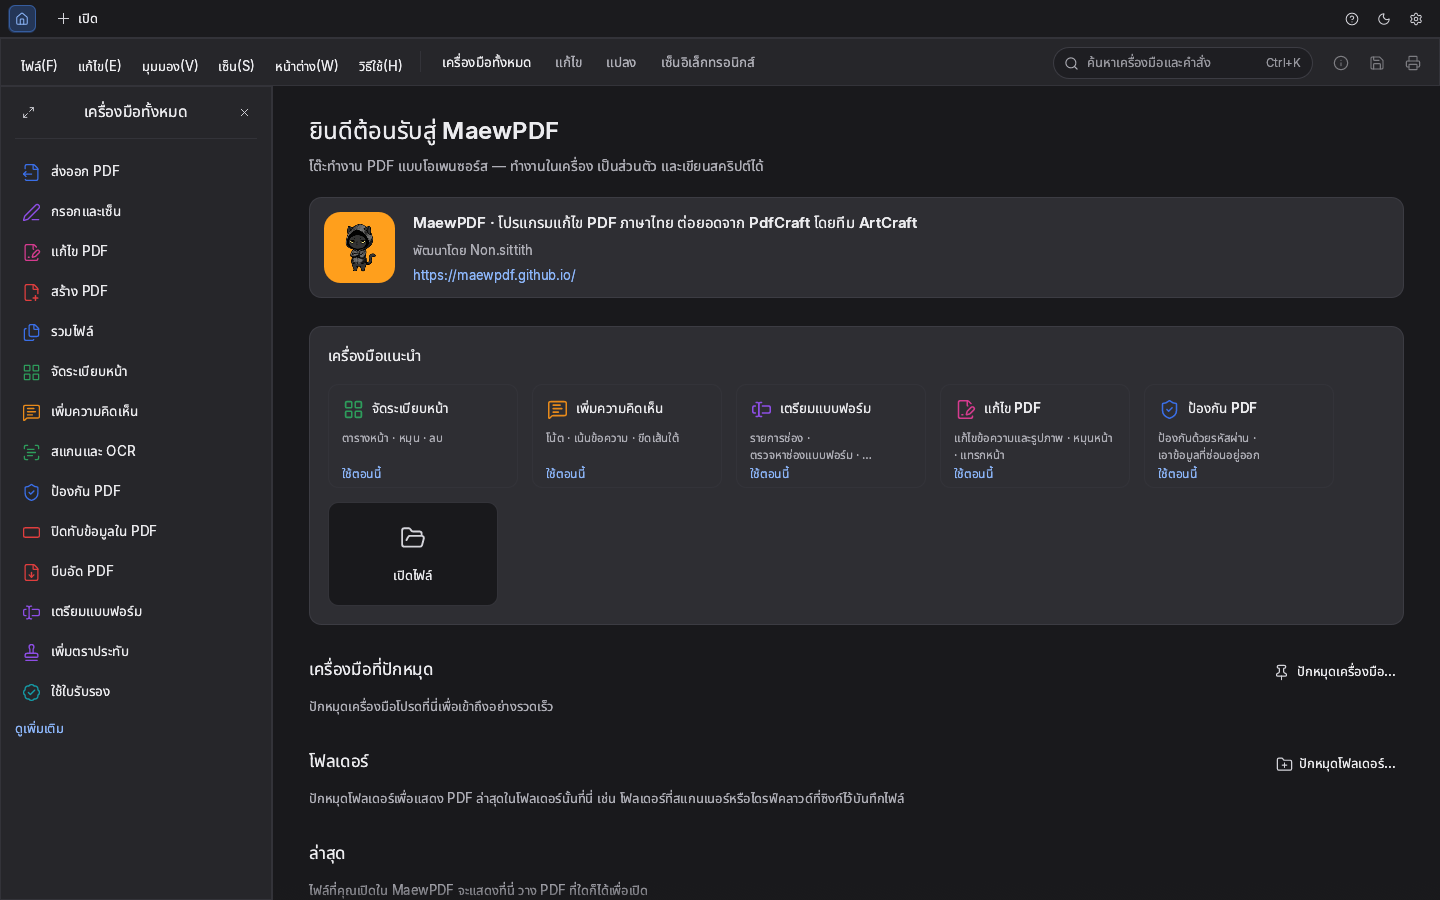
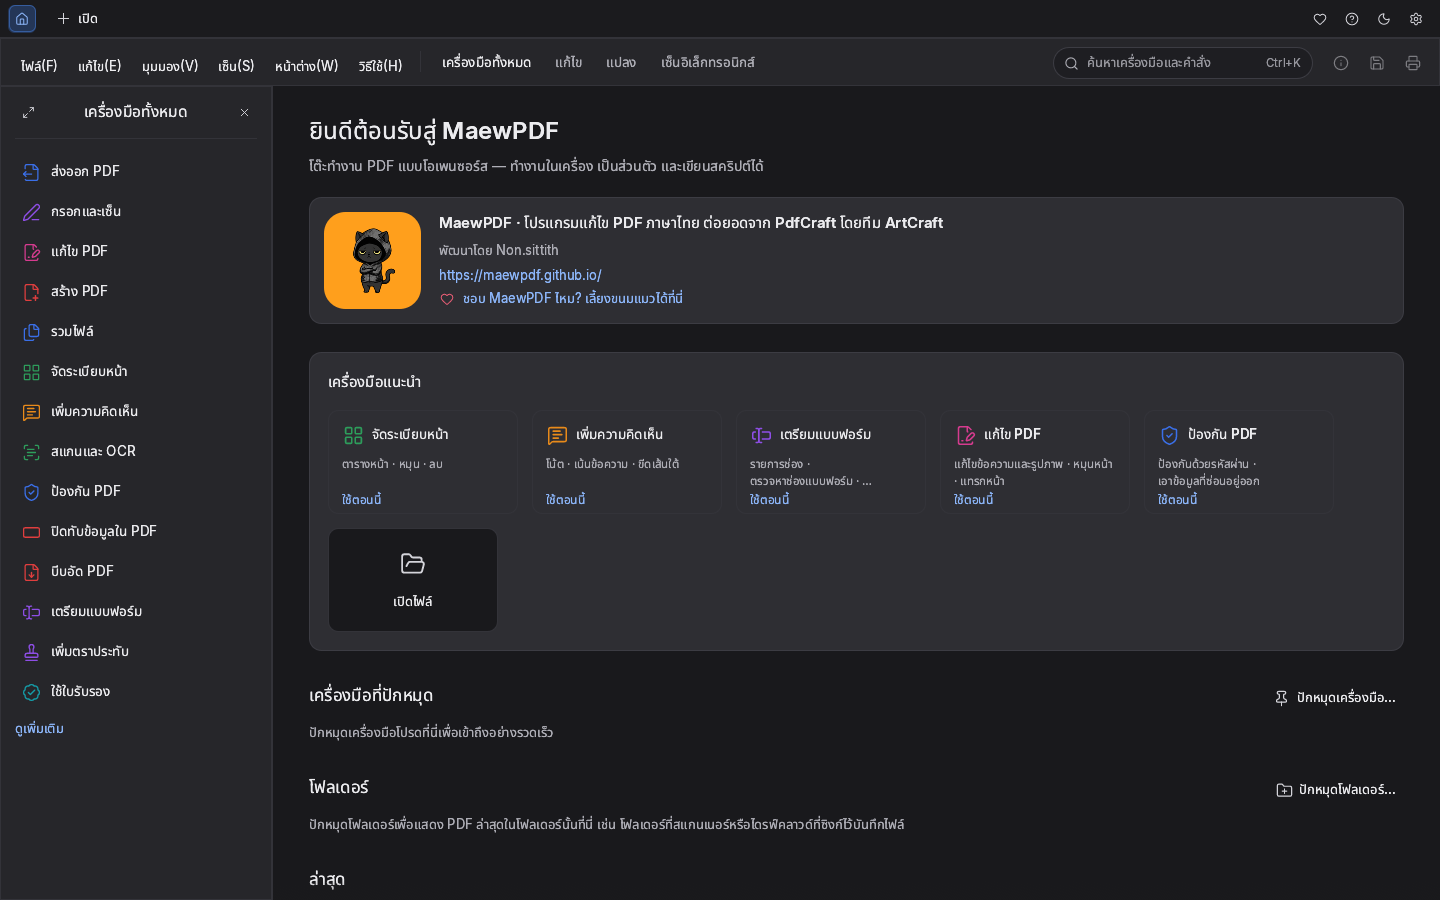
MaewPDF site: 1.0.0 is the latest release; th.3 joins the older ones; home screenshots from 1.0.0

diff --git a/index.html b/index.html
@@ -25,7 +25,7 @@
   "applicationCategory": "BusinessApplication",
   "operatingSystem": "Windows 10, Windows 11 (64-bit)",
   "inLanguage": "th",
-  "softwareVersion": "0.21.1-th.3",
+  "softwareVersion": "1.0.0",
   "author": { "@type": "Person", "name": "Non.sittith" },
   "license": "https://opensource.org/licenses/MIT",
   "url": "https://maewpdf.github.io/",
@@ -199,11 +199,11 @@ footer p{margin:0 0 8px}.foot{display:flex;gap:22px;align-items:flex-start}.foot
 
 <main>
 <div class="hero"><div class="wrap">
-  <a class="pill" href="https://github.com/maewpdf/maewpdf/releases/tag/v0.21.1-th.3">● ใหม่ในรุ่น 0.21.1-th.3 · OCR ภาษาไทยแม่นขึ้น คัดลอก วาง และลบกล่องข้อความลื่นขึ้น</a>
+  <a class="pill" href="https://github.com/maewpdf/maewpdf/releases/tag/v1.0.0">● ใหม่ในรุ่น 1.0.0 · ตรวจหาช่องจากเส้นจุด คัดลอกวางช่อง ฟอนต์ไทยในแบบฟอร์ม</a>
   <h1>แก้ไข PDF ภาษาไทย<br><em>ได้ทุกตัวอักษร</em></h1>
   <p class="lead">โปรแกรมแก้ไข PDF ฟรี เมนูไทยทั้งหมด พิมพ์และแก้ข้อความไทยใน PDF ได้ สระและวรรณยุกต์ไม่เพี้ยน มีฟอนต์ TH Sarabun PSK ในตัว</p>
   <div class="btns"><a class="btn primary" href="https://github.com/maewpdf/maewpdf/releases/latest"><svg aria-hidden="true" width="18" height="18" viewBox="0 0 24 24" fill="none" stroke="currentColor" stroke-width="1.8" stroke-linecap="round" stroke-linejoin="round"><path d="M12 4v11M7 10l5 5 5-5M5 20h14"/></svg> ดาวน์โหลดฟรีสำหรับ Windows</a><a class="btn ghost" href="#install">วิธีติดตั้ง</a></div>
-  <div class="ver">รุ่นล่าสุด 0.21.1-th.3 · Windows 10/11 แบบ 64 บิต · ทำงานในเครื่อง ไม่ต้องสมัครบัญชี</div>
+  <div class="ver">รุ่นล่าสุด 1.0.0 · Windows 10/11 แบบ 64 บิต · ทำงานในเครื่อง ไม่ต้องสมัครบัญชี</div>
   <div class="shot">
     <img class="only-light" src="home-light.png" width="1440" height="900" alt="หน้าแรกของโปรแกรม MaewPDF แสดงเมนูเครื่องมือภาษาไทย เช่น แก้ไข PDF กรอกและเซ็น รวมไฟล์ และบีบอัด PDF">
     <img class="only-dark" src="home-dark.png" width="1440" height="900" alt="หน้าแรกของโปรแกรม MaewPDF ในธีมมืด" loading="lazy">
@@ -287,7 +287,7 @@ footer p{margin:0 0 8px}.foot{display:flex;gap:22px;align-items:flex-start}.foot
 </div></section>
 
 <section id="install"><div class="wrap">
-  <h2>ดาวน์โหลดและติดตั้ง</h2><p class="sub">รุ่น 0.21.1-th.3 สำหรับ Windows 10/11 แบบ 64 บิต</p>
+  <h2>ดาวน์โหลดและติดตั้ง</h2><p class="sub">รุ่น 1.0.0 สำหรับ Windows 10/11 แบบ 64 บิต</p>
   <div class="install">
     <ol class="steps">
 <li>เปิดหน้า <a href="https://github.com/maewpdf/maewpdf/releases/latest">ดาวน์โหลดรุ่นล่าสุด</a> แล้วเลื่อนลงไปที่หัวข้อ <strong>Assets</strong></li>
@@ -296,8 +296,8 @@ footer p{margin:0 0 8px}.foot{display:flex;gap:22px;align-items:flex-start}.foot
         <li>เปิดโปรแกรม จะเป็นภาษาไทยทันที ลากไฟล์ PDF มาวางในโปรแกรมเพื่อเริ่มแก้ไขได้เลย</li>
     </ol>
     <div class="files">
-      <div class="file"><span class="fi"><svg aria-hidden="true" width="22" height="22" viewBox="0 0 24 24" fill="none" stroke="currentColor" stroke-width="1.8" stroke-linecap="round" stroke-linejoin="round"><path d="M12 4v11M7 10l5 5 5-5M5 20h14"/></svg></span><div><b>ตัวติดตั้ง (.msi)</b><span>แนะนำ · ภาษาไทย · ติดตั้งทับรุ่นเก่าได้</span></div><a class="btn primary sm" href="https://github.com/maewpdf/maewpdf/releases/download/v0.21.1-th.3/maewpdf-0.21.1-th.3-windows-x64.msi">ดาวน์โหลด</a></div>
-      <div class="file"><span class="fi"><svg aria-hidden="true" width="22" height="22" viewBox="0 0 24 24" fill="none" stroke="currentColor" stroke-width="1.8" stroke-linecap="round" stroke-linejoin="round"><path d="M4 8l8-4 8 4v8l-8 4-8-4z"/><path d="M4 8l8 4 8-4M12 12v8"/></svg></span><div><b>แบบไม่ต้องติดตั้ง (.zip)</b><span>แตกไฟล์แล้วเปิด maewpdf.exe ได้เลย</span></div><a class="btn ghost sm" href="https://github.com/maewpdf/maewpdf/releases/download/v0.21.1-th.3/maewpdf-0.21.1-th.3-windows-x64-portable.zip">ดาวน์โหลด</a></div>
+      <div class="file"><span class="fi"><svg aria-hidden="true" width="22" height="22" viewBox="0 0 24 24" fill="none" stroke="currentColor" stroke-width="1.8" stroke-linecap="round" stroke-linejoin="round"><path d="M12 4v11M7 10l5 5 5-5M5 20h14"/></svg></span><div><b>ตัวติดตั้ง (.msi)</b><span>แนะนำ · ภาษาไทย · ติดตั้งทับรุ่นเก่าได้</span></div><a class="btn primary sm" href="https://github.com/maewpdf/maewpdf/releases/download/v1.0.0/maewpdf-1.0.0-windows-x64.msi">ดาวน์โหลด</a></div>
+      <div class="file"><span class="fi"><svg aria-hidden="true" width="22" height="22" viewBox="0 0 24 24" fill="none" stroke="currentColor" stroke-width="1.8" stroke-linecap="round" stroke-linejoin="round"><path d="M4 8l8-4 8 4v8l-8 4-8-4z"/><path d="M4 8l8 4 8-4M12 12v8"/></svg></span><div><b>แบบไม่ต้องติดตั้ง (.zip)</b><span>แตกไฟล์แล้วเปิด maewpdf.exe ได้เลย</span></div><a class="btn ghost sm" href="https://github.com/maewpdf/maewpdf/releases/download/v1.0.0/maewpdf-1.0.0-windows-x64-portable.zip">ดาวน์โหลด</a></div>
       <p class="note"><strong>Windows อาจเตือนตอนเปิดครั้งแรก</strong> เพราะไฟล์โปรแกรมในฉบับนี้ยังไม่มีลายเซ็นดิจิทัล ถ้าขึ้นหน้าต่าง "Windows protected your PC" ให้กด <strong>More info</strong> แล้วกด <strong>Run anyway</strong> ตรวจสอบได้ว่าไฟล์ไม่ถูกแก้ไขระหว่างทางโดยเทียบค่า SHA-256 ที่ระบุในหน้าดาวน์โหลด</p>
     </div>
   </div>
@@ -307,6 +307,14 @@ footer p{margin:0 0 8px}.foot{display:flex;gap:22px;align-items:flex-start}.foot
   <h2>ดาวน์โหลดรุ่นก่อนหน้า</h2>
   <p class="sub">ถ้ารุ่นล่าสุดมีปัญหากับงานของคุณ เลือกรุ่นก่อนหน้าได้ที่นี่ กดปุ่มแล้วไฟล์จะดาวน์โหลดทันที</p>
   <ul class="older">
+<li class="older-row">
+          <div class="older-info"><strong>0.21.1-th.3</strong> <span class="older-date">19 พ.ย. 2569</span><br><span class="older-what">OCR ภาษาไทยแม่นขึ้น คัดลอก วาง และลบกล่องข้อความลื่นขึ้น</span></div>
+          <div class="older-links">
+            <a class="btn small" href="https://github.com/maewpdf/maewpdf/releases/download/v0.21.1-th.3/maewpdf-0.21.1-th.3-windows-x64.msi">ตัวติดตั้ง (.msi)</a>
+            <a class="btn small" href="https://github.com/maewpdf/maewpdf/releases/download/v0.21.1-th.3/maewpdf-0.21.1-th.3-windows-x64-portable.zip">แบบไม่ต้องติดตั้ง (.zip)</a>
+            <a class="older-notes" href="https://github.com/maewpdf/maewpdf/releases/tag/v0.21.1-th.3">รายละเอียด</a>
+          </div>
+        </li>
 <li class="older-row">
           <div class="older-info"><strong>0.21.1-th.2</strong> <span class="older-date">15 พ.ย. 2569</span><br><span class="older-what">MaewPDF ย้ายบ้าน OCR อ่านแบบฟอร์มได้ครบขึ้น แยกกล่องข้อความตามช่องว่างได้</span></div>
           <div class="older-links">
